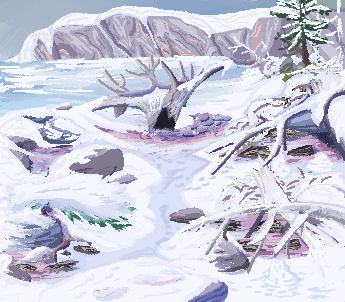
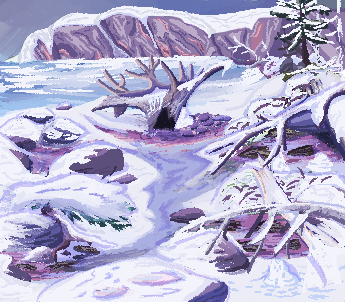
Plenty of adjustments
Darkened the leafbare camp, adjusted some placements, made it so Lakeside can be suggested from the randomizer

diff --git a/scripts/screens/MakeClanScreen.py b/scripts/screens/MakeClanScreen.py
@@ -390,7 +390,7 @@ class MakeClanScreen(Screens):
             if old_biome is not None:
                 possible_biomes.remove(old_biome)
             self.biome_selected = choice(possible_biomes)
-            self.selected_camp_tab = randrange(1, 4)
+            self.selected_camp_tab = randrange(1, 5)
             self.refresh_selected_camp()
             self.refresh_text_and_buttons()
         elif event.ui_element == self.elements['done_button']:
